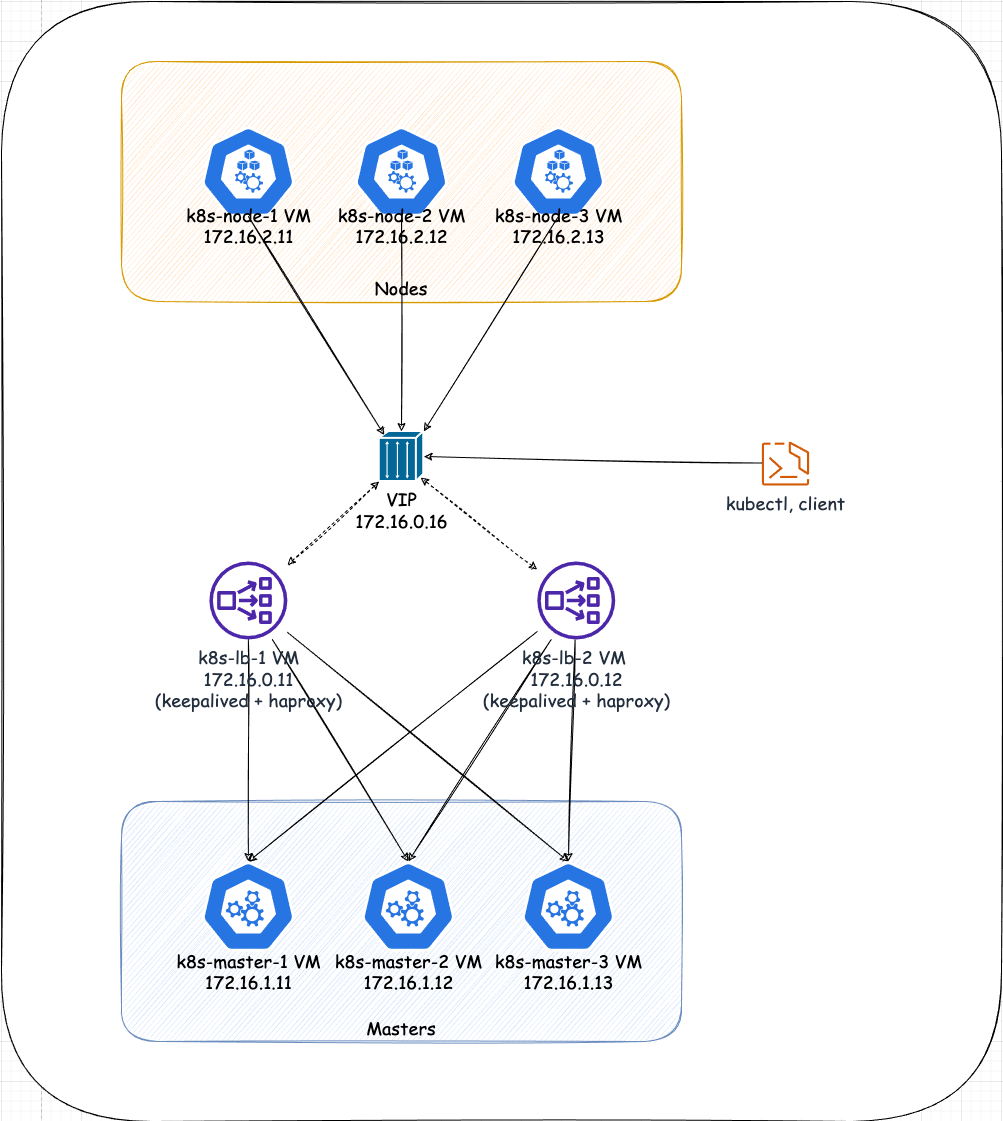
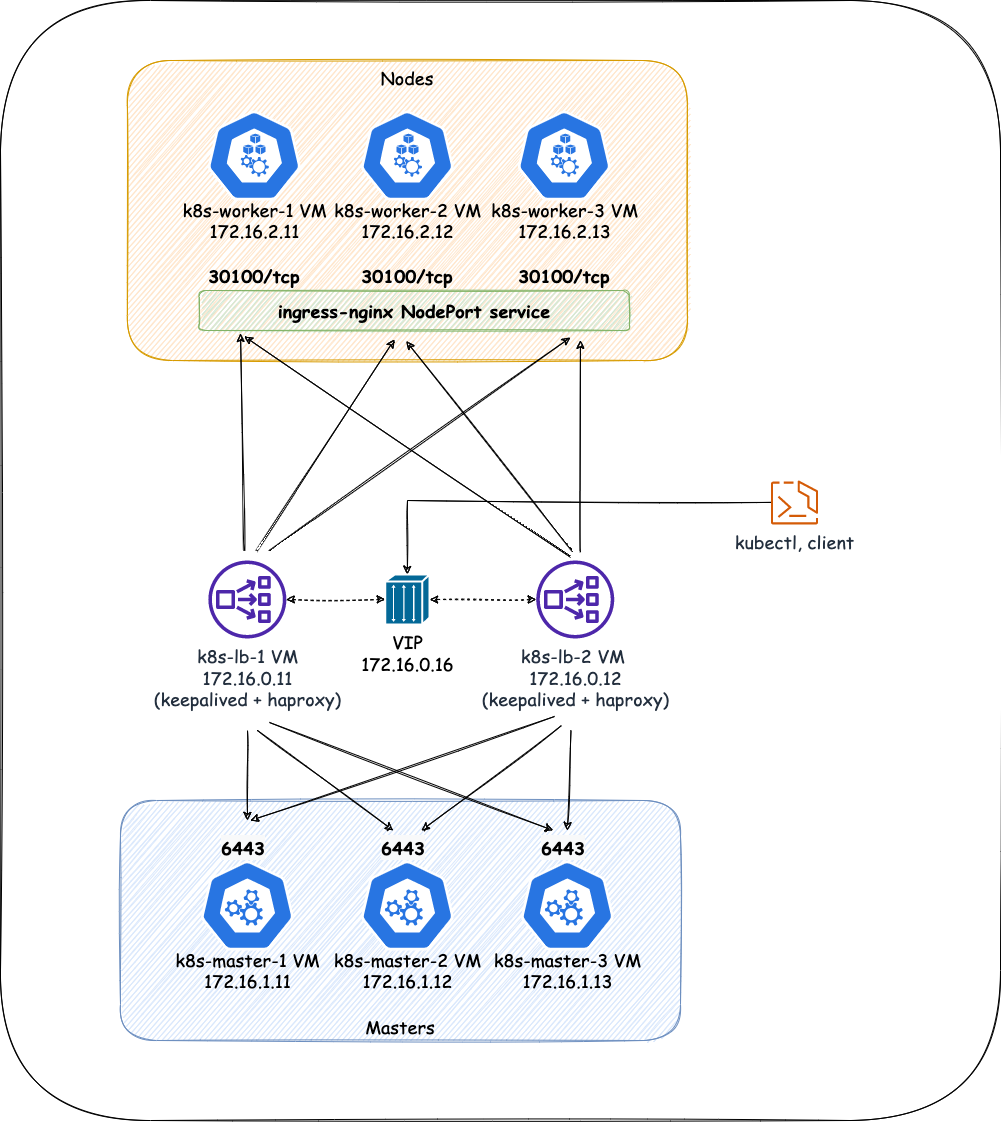
update README.EADME.md

diff --git a/load-balancing-services/README.md b/load-balancing-services/README.md
@@ -1,0 +1,68 @@
+# Set up load balancing requests to Kubernetes services with Ingress NGINX
+
+![setup.png](setup.png?raw=true "setup.png")
+
+## Prerequisites
+Before you want to try this on your local, here are requirements
+* Directly download [Virtualbox](https://www.virtualbox.org/) and install, or use homebrew
+    ```
+    brew install --cask virtualbox
+    ```
+* Vagrant
+    ```
+    brew install --cask vagrant
+    ```
+* [(Optional) Vagrant Manager](http://vagrantmanager.com/)
+    ```
+    brew install --cask vagrant-manager
+    ```
+
+## Setup Kubernetes cluster
+Follow [Create a HA Kubernetes cluster with kubeadm, keepalived, and haproxy by Ansible](../create-ha-cluster) to set up a HA Kubernetes cluster.
+
+## Install NGINX ingress controller
+```shell
+kubectl apply -f https://raw.githubusercontent.com/kubernetes/ingress-nginx/controller-v1.1.1/deploy/static/provider/baremetal/deploy.yaml
+kubectl -n ingress-nginx  get pods
+```
+
+Patch `ingress-nginx-controller` service to set `nodePort` to `30100` and `30101`
+```shell
+kubectl -n ingress-nginx patch svc ingress-nginx-controller --patch \
+  '{"spec": { "type": "NodePort", "ports": [ { "port": 80, "nodePort": 30100 }, { "port": 443, "nodePort": 30101 } ] } }'
+kubectl -n ingress-nginx get svc
+```
+
+Patch `ingress-nginx-controller` configmap to for [use-proxy-protocol](https://kubernetes.github.io/ingress-nginx/user-guide/nginx-configuration/configmap/#use-proxy-protocol)
+```shell
+kubectl -n ingress-nginx patch configmap ingress-nginx-controller --patch-file patch-configmap.yaml
+```
+
+## Configure load balancing requests to ingress-nginx service
+See task `Configure haproxy` in [lb_playbook.yml](../create-ha-cluster/playbook/lb_playbook.yml)
+
+## Verify by deploying a nginx into Kubernetes cluster
+Source: https://kubernetes.io/docs/concepts/services-networking/connect-applications-service/
+
+Deploy
+```shell
+kubectl apply -f my-nginx-deploy.yaml
+kubectl get pods -l run=my-nginx
+```
+
+Expose service
+```shell
+kubectl apply -f my-nginx-svc.yaml
+kubectl get svc my-nginx
+```
+
+[nip.io](https://nip.io/) allows us to map any IP Address to a hostname using the defined formats, then we do not need to edit `etc/hosts` file 
+```shell
+kubectl apply -f my-nginx-ingress.yaml
+```
+
+Open on browser [http://172.16.0.16.nip.io](http://172.16.0.16.nip.io), or
+```shell
+open http://172.16.0.16.nip.io
+```
+

diff --git a/README.md b/README.md
@@ -156,3 +156,51 @@ Following these steps will ensure the successful installation of Flannel as your
   ```
 
 Enjoy your Kubernetes Cluster!
+
+## Install NGINX ingress controller
+```shell
+cd load-balancing-services
+kubectl apply -f https://raw.githubusercontent.com/kubernetes/ingress-nginx/controller-v1.9.4/deploy/static/provider/baremetal/deploy.yaml
+kubectl -n ingress-nginx  get pods
+```
+
+Patch `ingress-nginx-controller` service to set `nodePort` to `30100` and `30101`
+```shell
+kubectl -n ingress-nginx patch svc ingress-nginx-controller --patch \
+  '{"spec": { "type": "NodePort", "ports": [ { "port": 80, "nodePort": 30100 }, { "port": 443, "nodePort": 30101 } ] } }'
+kubectl -n ingress-nginx get svc
+```
+
+Patch `ingress-nginx-controller` configmap to for [use-proxy-protocol](https://kubernetes.github.io/ingress-nginx/user-guide/nginx-configuration/configmap/#use-proxy-protocol)
+```shell
+kubectl -n ingress-nginx patch configmap ingress-nginx-controller --patch-file patch-configmap.yaml
+```
+
+## Configure load balancing requests to ingress-nginx service
+See task `Configure haproxy` in [setup_lb.sh](./setup_lb.sh)
+
+## Verify by deploying a nginx into Kubernetes cluster
+Source: https://kubernetes.io/docs/concepts/services-networking/connect-applications-service/
+
+Deploy
+```shell
+kubectl apply -f my-nginx-deploy.yaml
+kubectl get pods -l run=my-nginx
+```
+
+Expose service
+```shell
+kubectl apply -f my-nginx-svc.yaml
+kubectl get svc my-nginx
+```
+
+[nip.io](https://nip.io/) allows us to map any IP Address to a hostname using the defined formats, then we do not need to edit `etc/hosts` file 
+```shell
+kubectl apply -f my-nginx-ingress.yaml
+```
+
+Open on browser [http://172.16.0.16.nip.io](http://172.16.0.16.nip.io), or
+```shell
+open http://172.16.0.16.nip.io
+```
+
